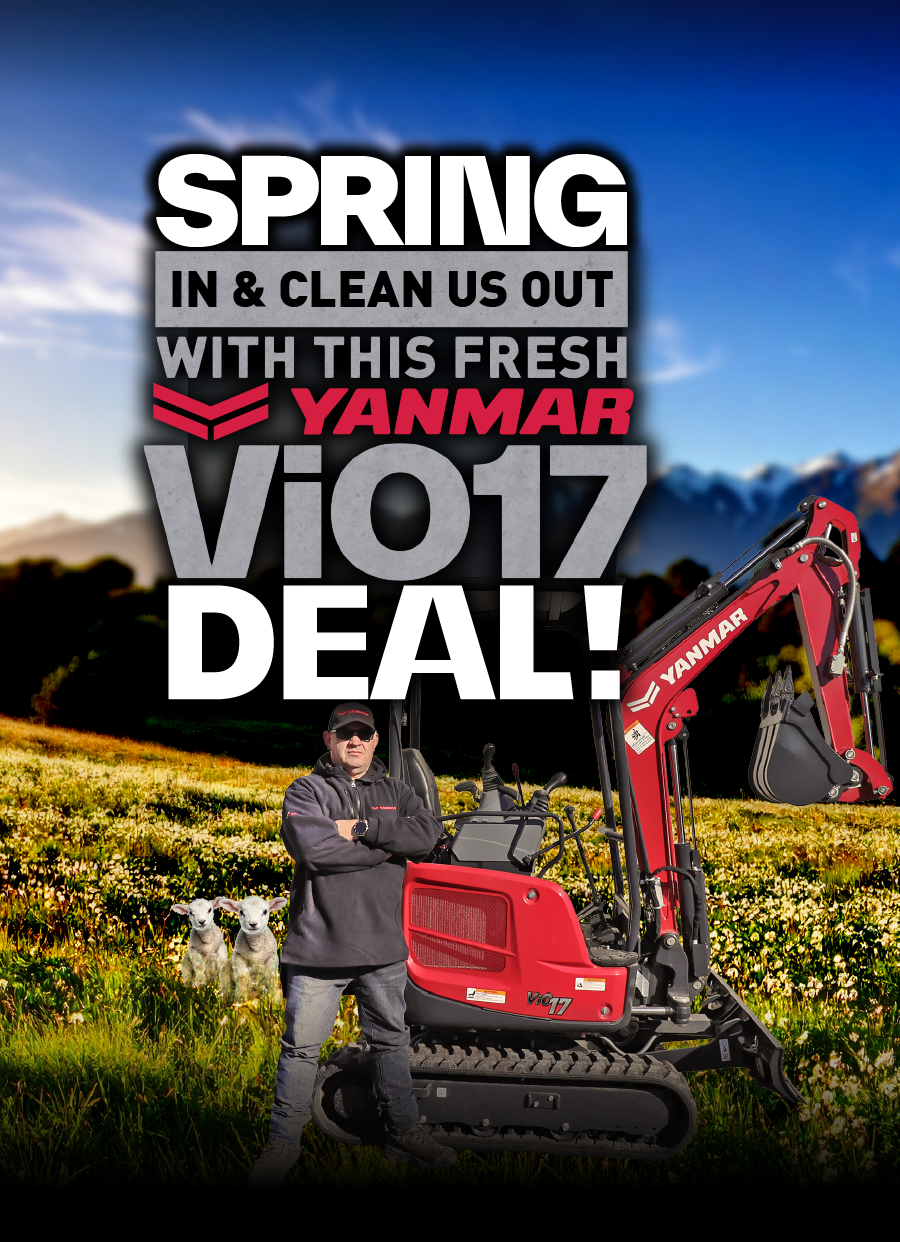
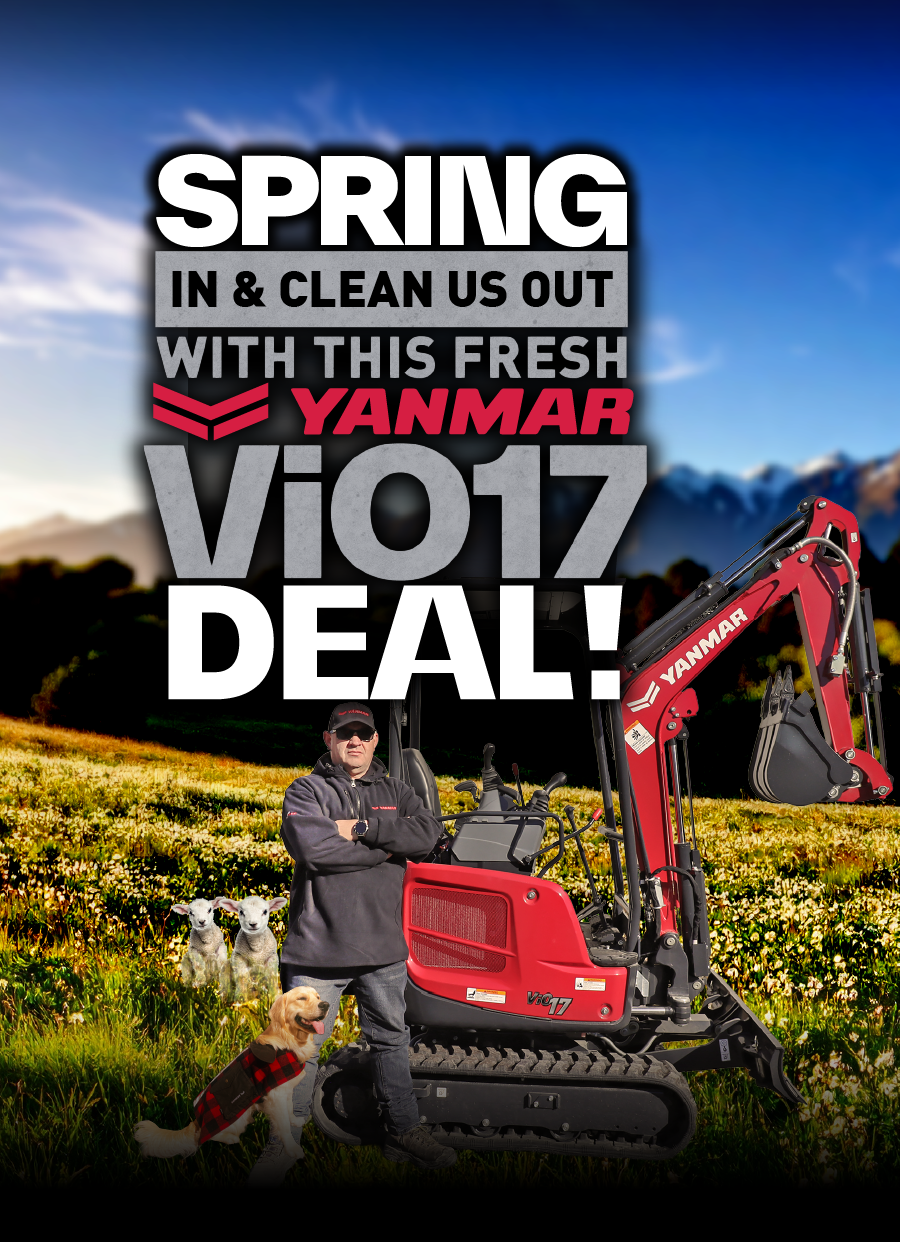
add Doge

Changed region(s): [[0.1556, 0.7955, 0.3733, 0.9485]]

diff --git a/html/yanmar-spring-clean-ViO17-deal.html b/html/yanmar-spring-clean-ViO17-deal.html
@@ -523,7 +523,7 @@
 
 
 
-    <img src="/images/2025/yanmar-spring-deal/yanmar-spring-clean-deal-desk.webp" class="d">
+    <img src="/images/2025/yanmar-spring-deal/yanmar-spring-clean-deal-bnr-desk.webp" class="d">
     <img src="/images/2025/yanmar-spring-deal/yanmar-spring-clean-deal-bnr-mob.webp" class="m">
 
 
